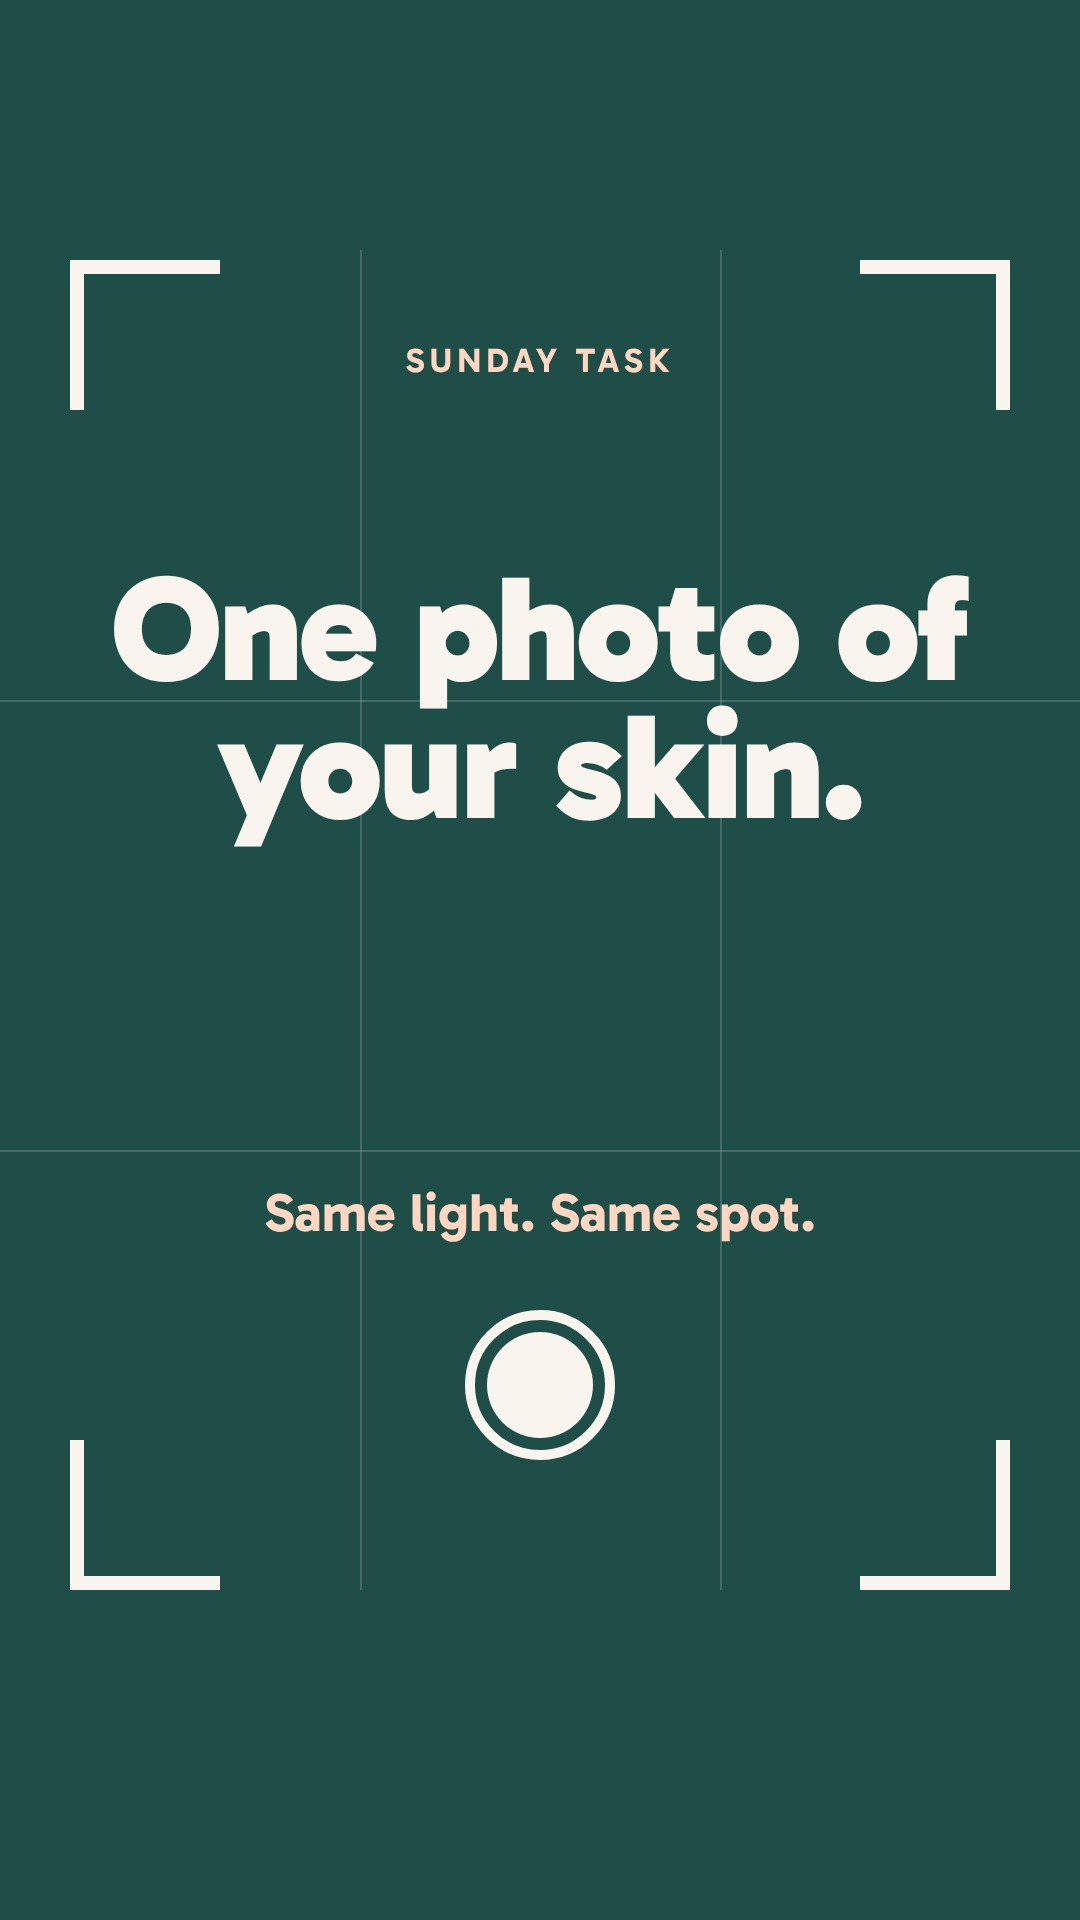
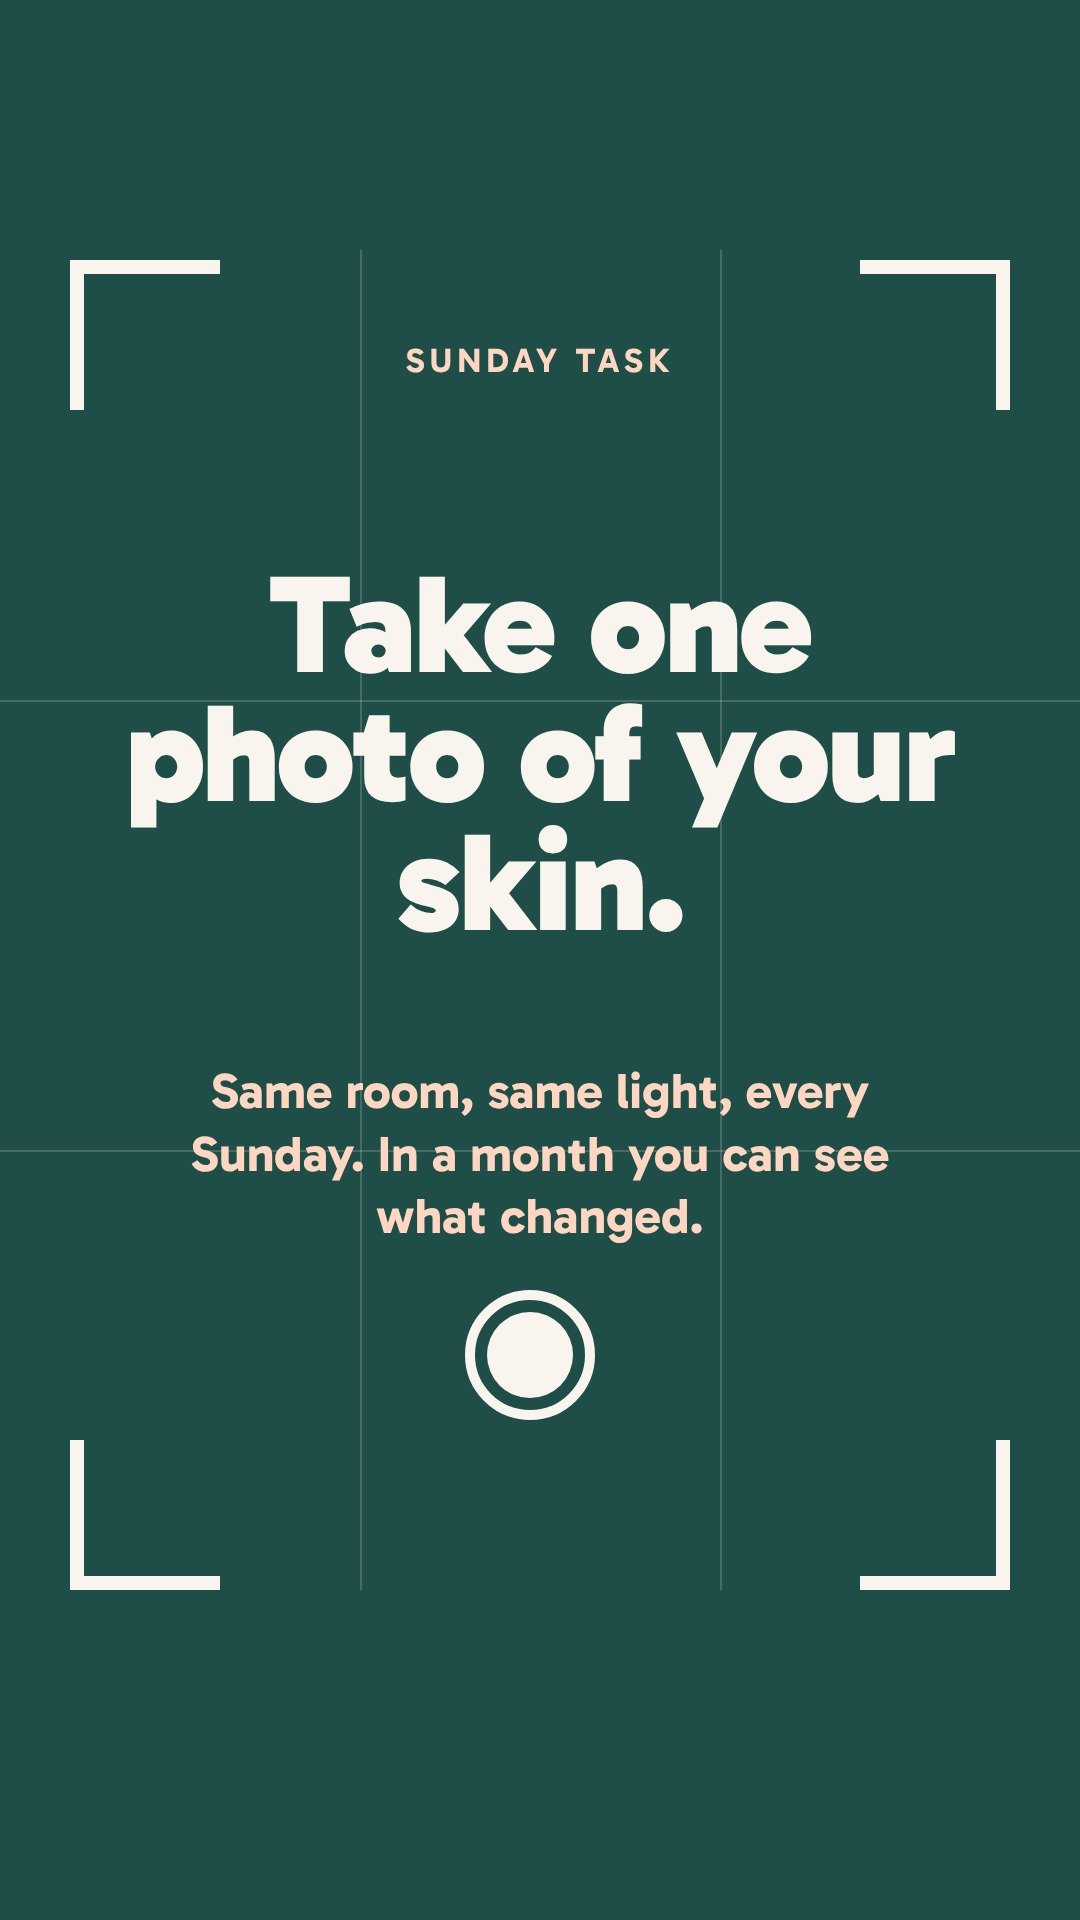
Stories: clearer photo task, sleep check-in, cleaner lk-s3
Claude-Session: https://claude.ai/code/session_01EVqxf8Ge6PxpeAQ2EPT812

Changed region(s): [[0.0917, 0.2812, 0.9167, 0.5], [0.1833, 0.5625, 0.825, 0.7812]]

diff --git a/tools/stories3.js b/tools/stories3.js
@@ -75,16 +75,17 @@ const S = {
     ${c(70, 260, 'border-width:14px 0 0 14px')}${c(860, 260, 'border-width:14px 14px 0 0')}
     ${c(70, 1440, 'border-width:0 0 14px 14px')}${c(860, 1440, 'border-width:0 14px 14px 0')}
     <div class="abs k" style="left:0;right:0;top:340px;text-align:center;color:${C.peach}">Sunday task</div>
-    <div class="abs h" style="left:110px;right:110px;top:560px;text-align:center;font-size:150px;color:${C.cream}">One photo of your skin.</div>
-    <div class="abs" style="left:0;right:0;top:1180px;text-align:center;font:700 54px Gabarito;color:${C.peach}">Same light. Same spot.</div>
-    <div class="abs" style="left:465px;top:1310px;width:150px;height:150px;border-radius:50%;border:10px solid ${C.cream};padding:12px"><div style="width:100%;height:100%;border-radius:50%;background:${C.cream}"></div></div>` };
+    <div class="abs h" style="left:110px;right:110px;top:560px;text-align:center;font-size:140px;color:${C.cream}">Take one photo of your skin.</div>
+    <div class="abs" style="left:150px;right:150px;top:1060px;text-align:center;font:700 50px/1.25 Gabarito;color:${C.peach}">Same room, same light, every Sunday. In a month you can see what changed.</div>
+    <div class="abs" style="left:465px;top:1290px;width:130px;height:130px;border-radius:50%;border:10px solid ${C.cream};padding:12px"><div style="width:100%;height:100%;border-radius:50%;background:${C.cream}"></div></div>` };
   },
 
   // Mon: the fact, as big as it gets.
   'sp-s6': () => ({ bg: C.jade, html: `
-    <div class="abs h" style="left:70px;top:300px;font-size:300px;line-height:.86;letter-spacing:-8px;color:${C.forest}">You<br>can’t<br>catch<br><span style="color:${C.cream}">TSW.</span></div>
-    <div class="abs" style="left:0;top:1440px">${waves(1080, 480, [C.peach, C.coral, C.cream, C.forest])}</div>
-    <div class="abs" style="left:78px;top:1330px;font:700 46px Gabarito;color:${C.forest}">Send this to someone who asked ↗</div>` }),
+    <div class="abs k" style="left:90px;top:300px;color:${C.forest}">Monday check-in</div>
+    <div class="abs h" style="left:84px;right:60px;top:370px;font-size:170px;color:${C.forest}">How many hours did you <span style="color:${C.cream}">sleep?</span></div>
+    <img class="abs" src="${A('yeti-sleep.png')}" style="left:200px;top:990px;width:680px">
+    ${hand(150, 1560, 'reply with a number', C.forest, 70, -4)}${arrow(700, 1530, C.forest, 22)}` }),
 
   // Tue: the offer, with the real app filling the bottom half and cut by the frame.
   'sp-s7': () => ({ bg: C.cream, html: `
@@ -100,8 +101,7 @@ const S = {
     ${hand(330, 1300, 'tell me here', '#1A1A1A', 76, -5)}${arrow(640, 1390, '#1A1A1A', 10)}` }),
   'lk-s3': () => ({ bg: C.forest, html: `
     ${igText(['In case you missed it:', 'I built an app for TSW.'], '#FFFFFF', '#111111', 72, 280)}
-    <img class="abs" src="${A('phone-mood.png')}" style="left:215px;top:560px;width:650px;transform:rotate(3deg)">
-    ${igText(['14 days free · @skinpal.app'], C.peach, '#111111', 50, 1500)}` }),
+    <img class="abs" src="${A('phone-mood.png')}" style="left:215px;top:560px;width:650px;transform:rotate(3deg)">` }),
   'lk-s4': () => ({ bg: '#2B2B2B', html: `
     ${igText(['What’s been', 'hardest', 'this month?'], C.coral, '#FFFFFF', 104, 600)}
     ${hand(250, 1290, 'I read every message', '#FFFFFF', 70, -4)}${arrow(700, 1390, '#FFFFFF', 14)}` }),
